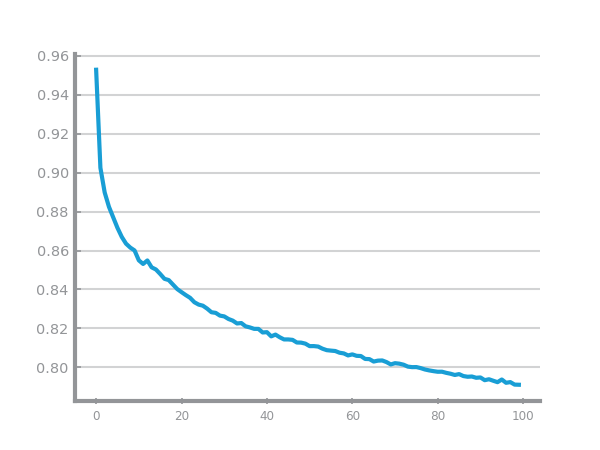
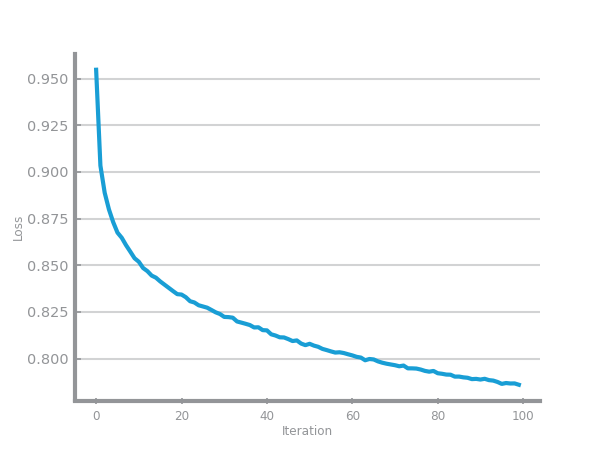
Fix mlp loss curve labels

diff --git a/health/src/evaluation/mlp_classifier.py b/health/src/evaluation/mlp_classifier.py
@@ -2,7 +2,7 @@ from numpy import ndarray
 import numpy as np
 import pandas as pd
 from pandas import DataFrame, read_csv, unique
-from matplotlib.pyplot import figure, subplots, savefig, show, plot
+from matplotlib.pyplot import figure, subplots, savefig, show, plot, xlabel, ylabel
 from sklearn.neural_network import MLPClassifier
 from ds_charts import plot_evaluation_results, plot_evaluation_results_2_train_test_matrixes, multiple_line_chart, horizontal_bar_chart, HEIGHT
 from sklearn.metrics import accuracy_score, f1_score
@@ -65,10 +65,10 @@ class MLPClassify:
         return best[0], best[1], best[2]
 
     def compute_mlp_best_results(self, lr_type, learning_rate, max_iter):
-        trnY: ndarray = self.data_train.values
+        trnY: ndarray = self.data_train.pop(target).values
         trnX: ndarray = self.data_train.values
 
-        tstY: ndarray = self.data_test.values
+        tstY: ndarray = self.data_test.pop(target).values
         tstX: ndarray = self.data_test.values
 
         clf = MLPClassifier(activation='logistic', solver='sgd', learning_rate=lr_type,
@@ -91,6 +91,8 @@ class MLPClassify:
         # Then, plot loss curve
         figure()
         plot(clf.loss_curve_)
+        xlabel("Iteration")
+        ylabel("Loss")
         savefig('health/records/evaluation/mlp_loss_curve.png')
 
         # Then, plot overfitting

diff --git a/climate/src/evaluation/mlp_classifier.py b/climate/src/evaluation/mlp_classifier.py
@@ -2,7 +2,7 @@ from numpy import ndarray
 import numpy as np
 import pandas as pd
 from pandas import DataFrame, read_csv, unique
-from matplotlib.pyplot import figure, subplots, savefig, show, plot
+from matplotlib.pyplot import figure, subplots, savefig, show, plot, xlabel, ylabel
 from sklearn.neural_network import MLPClassifier
 from ds_charts import plot_evaluation_results, multiple_line_chart, horizontal_bar_chart, HEIGHT
 from sklearn.metrics import accuracy_score, f1_score
@@ -91,6 +91,8 @@ class MLPClassify:
         # Then, plot loss curve
         figure()
         plot(clf.loss_curve_)
+        xlabel("Iteration")
+        ylabel("Loss")
         savefig('climate/records/evaluation/mlp_loss_curve.png')
 
         # Then, plot overfitting
